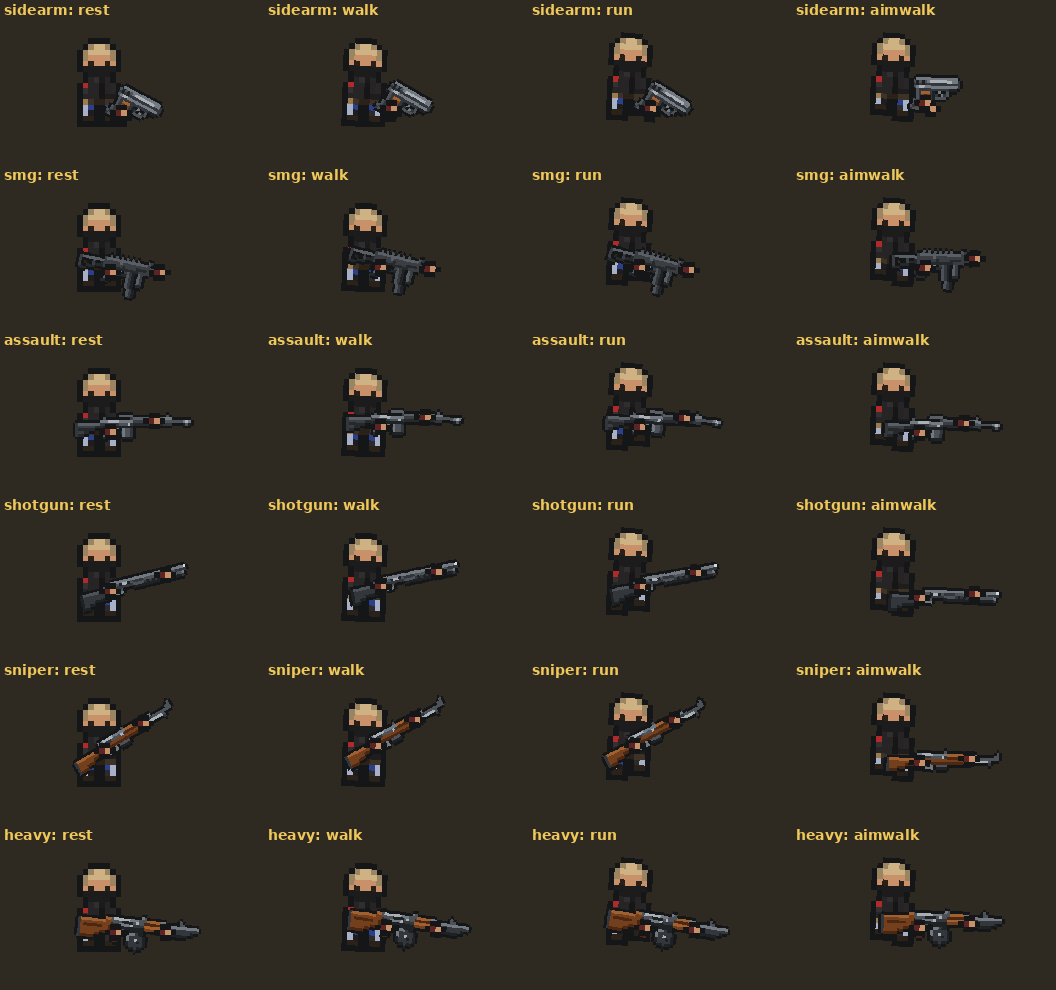
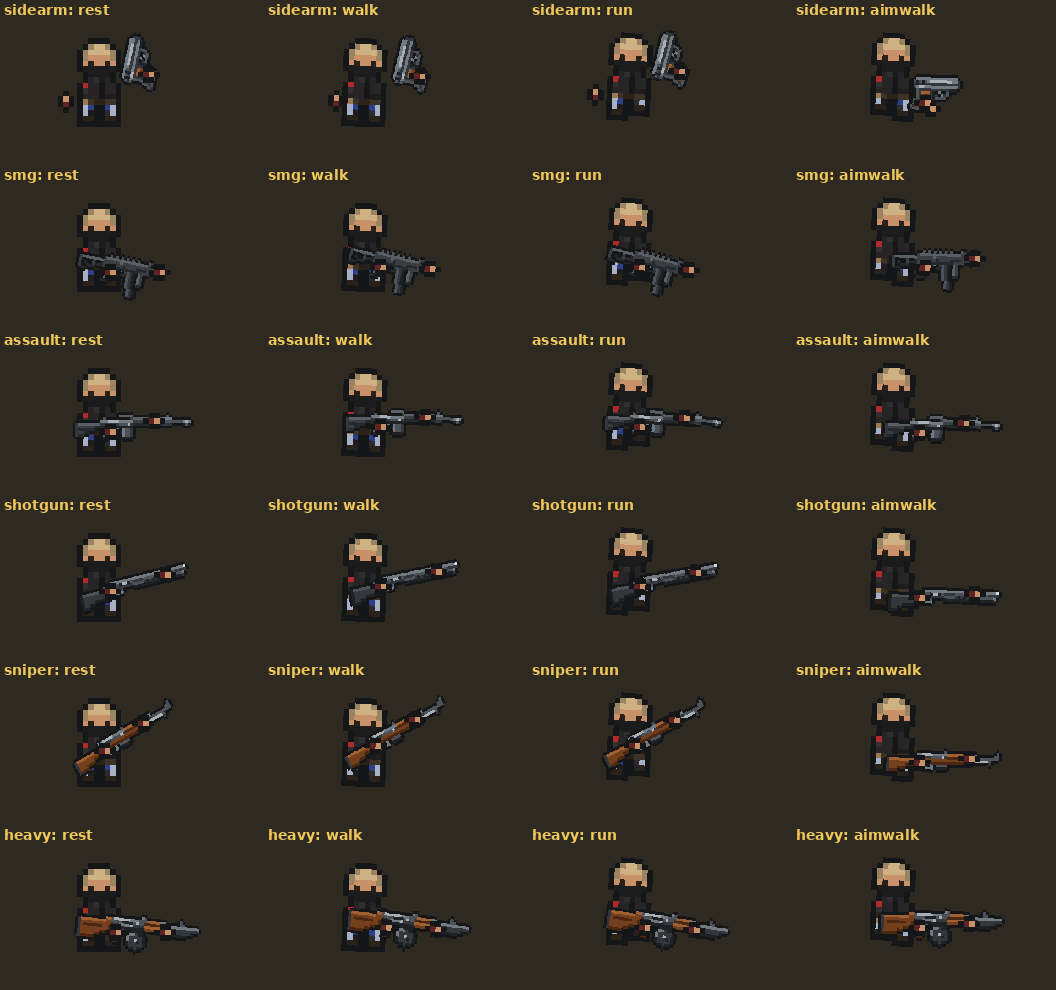
Experiment: pistol held muzzle up Bond-style, free arm swings
Claude-Session: https://claude.ai/code/session_01Jpd5tdDJTR7BVueAYV1KDM

Changed region(s): [[0.0312, 0.0303, 0.1562, 0.1212], [0.5625, 0.0303, 0.6562, 0.1212], [0.3125, 0.0303, 0.4062, 0.1212]]

diff --git a/Assets/Scripts/GameCore/HeldWeapon.cs b/Assets/Scripts/GameCore/HeldWeapon.cs
@@ -1216,7 +1216,13 @@ namespace GameCore
             float dxp = Mathf.Round(s1 * amp * _walkK) * sw, liftp = Mathf.Round(s1 * s1 * up * _walkK) * sw - bobAim, th = -s1 * cd.RunTilt * _runK * sw;
             float carryDx = (_restLeft ? cd.ShiftPx : -cd.ShiftPx) * _carryK, carryDrop = cd.DropPx * _carryK;                                  // close to the body: 3 px in toward the torso
             Vector3 Swing(Vector3 p) => new Vector3(p.x + (dxp + carryDx) / 16f, p.y + (liftp - carryDrop) / 16f, p.z);
-            foreach (var r in new[] { _gun, _gun2, _grip, _support, _mag, _barrels, _part2, _optic, _under, _magHd, _shell }) if (r != null && r.gameObject.activeSelf) { r.transform.localPosition = Swing(r.transform.localPosition); r.transform.localRotation = Quaternion.Euler(0f, 0f, r.transform.localEulerAngles.z + th); }
+            bool freeArm = cd.FreeArm && carrying && _carryK > 0.5f;                                   // the pistol's other arm: hangs at the side and swings with the steps (not carried with the gun)
+            if (freeArm)
+            {
+                var (rx, ry, lx, ly) = HeldPoseMath.FreeHands(_phase2, _walkK, _runK); bool fl = _restLeft; float fx = fl ? rx : lx, fy = fl ? ry : ly;       // the arm on the side away from the gun
+                _support.gameObject.SetActive(true); _support.sprite = HandSprite(armor, false); _support.flipX = !fl; _support.transform.localPosition = Local(fx, fy) + new Vector3(0f, 0f, -0.015f); _support.transform.localRotation = Quaternion.Euler(0f, 0f, fl ? -90f : 90f);
+            }
+            foreach (var r in new[] { _gun, _gun2, _grip, _support, _mag, _barrels, _part2, _optic, _under, _magHd, _shell }) if (r != null && r.gameObject.activeSelf && !(freeArm && r == _support)) { r.transform.localPosition = Swing(r.transform.localPosition); r.transform.localRotation = Quaternion.Euler(0f, 0f, r.transform.localEulerAngles.z + th); }
         }
         void ShowCore(Weapon weapon, ArmorDef armor, Vector3 unitPos, Vector3? aimAt, bool visible, bool back = false, Weapon offhand = null)
         {

diff --git a/Assets/Scripts/GameCore/WeaponCarry.cs b/Assets/Scripts/GameCore/WeaponCarry.cs
@@ -11,11 +11,12 @@ namespace GameCore
 {
     public static class WeaponCarry
     {
-        public struct Def { public float RestDeg, ShiftPx, DropPx, WalkAmp, WalkLift, RunAmp, RunLift, RunTilt; }
+        public struct Def { public float RestDeg, ShiftPx, DropPx, WalkAmp, WalkLift, RunAmp, RunLift, RunTilt; public bool FreeArm; }   // FreeArm: the other hand is off the gun, hanging and swinging with the steps
         static Def D(float rest, float shift, float drop, float wa, float wl, float ra, float rl, float rt) => new Def { RestDeg = rest, ShiftPx = shift, DropPx = drop, WalkAmp = wa, WalkLift = wl, RunAmp = ra, RunLift = rl, RunTilt = rt };
         //                                              rest    shift drop  walk  walk  run   run   run
         //                                              deg     px    px    amp   lift  amp   lift  tilt
-        static readonly Def Sidearm = D(-28f, 2f, 2f, 1f, 1f, 2f, 1f, 7f);     // a pistol: low-ready, muzzle down by the hip, swings freely
+        // 2026-11-23 EXPERIMENT (Yan: "make the character hold the pistol muzzle UP like james bond in the movie posters, and when running he runs holding the pistol muzzle up and swinging the other arm"): the pistol is held up at the chest, muzzle up, one-handed; the other arm hangs and swings with the steps (FreeArm). The old low-ready was D(-28, 2, 2, 1, 1, 2, 1, 7).
+        static readonly Def Sidearm = new Def { RestDeg = 78f, ShiftPx = -5f, DropPx = -1f, WalkAmp = 1f, WalkLift = 0f, RunAmp = 1f, RunLift = 1f, RunTilt = 2f, FreeArm = true };
         static readonly Def Smg = D(-12f, 3f, 1f, 1f, 1f, 3f, 2f, 5f);         // an SMG: close to the chest, a little down
         static readonly Def Assault = D(0f, 3f, 0f, 1f, 1f, 3f, 2f, 5f);       // a rifle: level across the front (the stance Yan approved)
         static readonly Def Shotgun = D(14f, 3f, 0f, 1f, 1f, 3f, 2f, 5f);      // a shotgun: across the chest, muzzle a little up

diff --git a/Tools/compile_check/test/Program.cs b/Tools/compile_check/test/Program.cs
@@ -759,7 +759,7 @@ static class Program {
     foreach (var (cat, key) in new[] { ("sidearm", "PSh18Pchela"), ("smg", "CorvanHornet45"), ("assault", "CorvanBattleRifle"), ("shotgun", "BayouPump"), ("sniper", "SKNKarabin"), ("heavy", "PL62Kobza") }) {
       var g = WeaponArt.GripOf(cat, key); var carry = HeldPoseMath.Frame(cat, g, WeaponCarry.RestAngle(cat, false), 0f, 0f, 0f, 99f, 1f, "none", 1); var aim = HeldPoseMath.Frame(cat, g, 0f, 0f, 0f, 0f, 99f, 1f, "none", 1);
       var d = WeaponCarry.Of(cat); if (!first) sb.Append(','); first = false;
-      sb.Append($"{{\"cat\":\"{cat}\",\"key\":\"{key}\",\"grip\":[{g[0].ToString(ci)},{g[1].ToString(ci)}],\"def\":{{\"shift\":{d.ShiftPx.ToString(ci)},\"drop\":{d.DropPx.ToString(ci)},\"wa\":{d.WalkAmp.ToString(ci)},\"wl\":{d.WalkLift.ToString(ci)},\"ra\":{d.RunAmp.ToString(ci)},\"rl\":{d.RunLift.ToString(ci)},\"rt\":{d.RunTilt.ToString(ci)}}},\"carry\":{Pose(carry)},\"aim\":{Pose(aim)}}}");
+      sb.Append($"{{\"cat\":\"{cat}\",\"key\":\"{key}\",\"grip\":[{g[0].ToString(ci)},{g[1].ToString(ci)}],\"def\":{{\"shift\":{d.ShiftPx.ToString(ci)},\"drop\":{d.DropPx.ToString(ci)},\"wa\":{d.WalkAmp.ToString(ci)},\"wl\":{d.WalkLift.ToString(ci)},\"ra\":{d.RunAmp.ToString(ci)},\"rl\":{d.RunLift.ToString(ci)},\"rt\":{d.RunTilt.ToString(ci)},\"free\":{(d.FreeArm ? 1 : 0)}}},\"carry\":{Pose(carry)},\"aim\":{Pose(aim)}}}");
     }
     sb.Append("]"); System.IO.File.WriteAllText(path, sb.ToString()); Console.WriteLine("weapon states -> " + path);
   }

diff --git a/Tools/render/weapon_states.py b/Tools/render/weapon_states.py
@@ -32,8 +32,12 @@ def panel(row, state, t):
     c.alpha_composite(body, (ha.BX * ha.S, (ha.BY - hop) * ha.S))
     oy = -hop                                                                    # the body hops, the held weapon rides on it (the marker moves)
     ha.paste(c, gun, row["grip"][0], row["grip"][1], r["gx"] + dx, r["gy"] - lift + oy, r["deg"] + th, False)
-    for (x, y, on) in ((r["sx"], r["sy"], r["sup"]), (r["hx"], r["hy"], 1)):
+    free = carry and d.get("free")
+    for (x, y, on) in ((r["sx"], r["sy"], r["sup"] and not free), (r["hx"], r["hy"], 1)):
         if on: c.alpha_composite(gl, (round((ha.BX + x + dx) * ha.S - 2 * ha.S), round((ha.BY + y - lift + oy) * ha.S - 1.5 * ha.S)))
+    if free:                                                                      # the other arm hangs at the side and swings (HeldPoseMath.FreeHands), fingers down
+        a_ = math.sin(phase) * walkK; ddx = round((1.2 + 2.2 * run) * a_); lf = round(math.sin(phase) ** 2 * 2.2 * run); fx, fy = 2 + ddx, 11.5 - lf
+        g = gl.rotate(90, expand=True); c.alpha_composite(g, (round((ha.BX + fx) * ha.S - g.width / 2), round((ha.BY + fy + oy) * ha.S - g.height / 2)))
     if lean: c = c.rotate(lean, resample=Image.NEAREST, center=((ha.BX + 8) * ha.S, (ha.BY + 16) * ha.S), fillcolor=ha.BG)
     c = c.convert("RGB"); c = c.resize((c.width * 55 // 100, c.height * 55 // 100), Image.NEAREST)
     ImageDraw.Draw(c).text((4, 2), f"{row['cat']}: {state}", font=font, fill=(240, 200, 90)); return c

diff --git a/ArtSource/WORK_LOG.md b/ArtSource/WORK_LOG.md
@@ -7045,3 +7045,6 @@ Yan: "lets establish resting positions for all weapons ... all weapon types need
 - `WeaponCarry.cs`: one row per category (sidearm, smg, assault, shotgun, sniper, heavy, melee): RestDeg (carry angle: pistol -28 down, SMG -12, rifle 0 level, shotgun +14, sniper +30 port arms, machine gun -6), ShiftPx (in toward the torso), DropPx, WalkAmp/WalkLift, RunAmp/RunLift/RunTilt. `HeldWeaponView` reads it: REST = stationary, not aiming/shooting: the carry pose; WALK/RUN = the carry with the pendulum across the body at that category's amplitude; AIM-WALK (right mouse or shooting while moving) = the aimed pose with no swing, only a 1 px bob per step. The carry blends in/out as before.
 - Preview: `Tools/render/weapon_states.py` (`weaponstates` harness command: the real HeldPoseMath.Frame of one gun per category): `maps/renders/verger/weapon_states.gif` / `_sheet.png`. NOT Unity.
 - NOT done: melee weapons keep their own stance and only get the 1 px step bob (their walk/run swing is not drawn yet); two guns at once (gunslinging) are not carried; grenades in hand; the numbers are first guesses. Harness passes.
+
+### Batch 9da (2026-11-23): EXPERIMENT, the Bond pistol
+Yan: "make the character hold the pistol muzzle UP like james bond in the movie posters, and when running he runs holding the pistol muzzle up and swinging the other arm". `WeaponCarry.Sidearm`: RestDeg +78 (muzzle up), 5 px out from the torso and 1 px up so it sits beside the face, almost no swing of its own; new `Def.FreeArm`: the other hand leaves the gun and hangs at the side, swinging with the steps (`HeldPoseMath.FreeHands`, the same pendulum as empty hands) in rest, walk and run; aiming or shooting brings the pistol to the aim with both hands as before. The old low-ready is kept in a comment (one line to revert). Preview row updated (`weapon_states.gif`). Harness passes; not seen in Unity.
